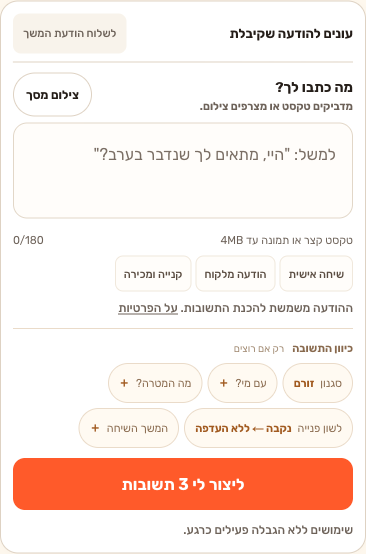
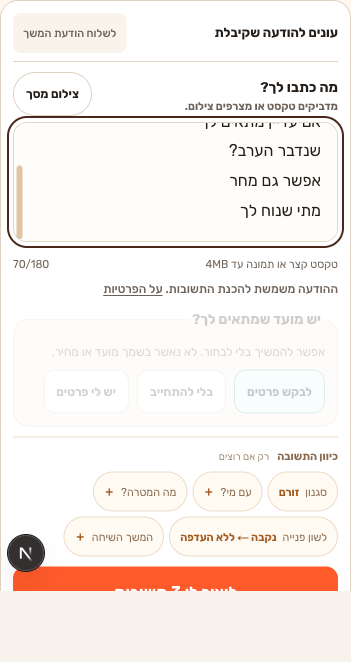
Grow message input within bounds and refine dialog close control

diff --git a/components/reply-direction-controls.tsx b/components/reply-direction-controls.tsx
@@ -86,7 +86,7 @@ export function ReplyDirectionControls(props: ReplyDirectionControlsProps) {
         const rect = event.currentTarget.getBoundingClientRect();
         if (event.clientX < rect.left || event.clientX > rect.right || event.clientY < rect.top || event.clientY > rect.bottom) setSelectedField(null);
       }} onCancel={() => setSelectedField(null)} onClose={() => setSelectedField(null)}>
-        <div className="sb-direction-dialog-top"><span>כיוון התשובה</span><button type="button" onClick={() => setSelectedField(null)} aria-label="סגירת אפשרויות כיוון התשובה">×</button></div>
+        <div className="sb-direction-dialog-top"><span>כיוון התשובה</span><button type="button" onClick={() => setSelectedField(null)} aria-label="סגירת אפשרויות כיוון התשובה"><svg width="18" height="18" viewBox="0 0 24 24" fill="none" aria-hidden="true"><path d="m6 6 12 12M18 6 6 18" stroke="currentColor" strokeWidth="1.7" strokeLinecap="round" /></svg></button></div>
         <div className="sb-direction-section" data-field={activeField}>
         <DirectionEditor key={activeField} {...props} field={activeField} close={() => setSelectedField(null)} />
         </div>

diff --git a/app/home-page-client.tsx b/app/home-page-client.tsx
@@ -2085,6 +2085,19 @@ export default function Home({
   const [composeMode, setComposeMode] = useState<ComposeMode>('incoming');
   const [mobilePrimaryView, setMobilePrimaryView] = useState<MobilePrimaryView>('compose');
   const [message, setMessage] = useState('');
+  useEffect(() => {
+    function resizeMessageInput() {
+      const input = messageInputRef.current;
+      if (!input) return;
+      input.style.height = '0px';
+      const border = input.offsetHeight - input.clientHeight;
+      input.style.height = `${input.scrollHeight + border}px`;
+    }
+    resizeMessageInput();
+    window.addEventListener('resize', resizeMessageInput);
+    return () => window.removeEventListener('resize', resizeMessageInput);
+  }, [message, composeMode, mobilePrimaryView]);
+
   const [languagePreferences, setLanguagePreferences] = useState<LanguagePreferences>({ speaker: 'neutral', recipient: 'neutral' });
   useEffect(() => {
     let cancelled = false;

diff --git a/components/reply-direction-controls.css b/components/reply-direction-controls.css
@@ -74,3 +74,7 @@
 .sb-direction-inline button:focus-visible, .sb-direction-dialog textarea:focus-visible { outline-color: #c17c2c; }
 .sb-direction-next { display: block; margin-inline-start: auto; margin-top: 8px; min-height: 40px; border: 1px solid #edc488; border-radius: 10px; padding: 6px 16px; color: #8c4b1b; background: #fff0cf; }
 @media (min-width: 768px) { .sb-direction-dialog { inset: 0; margin: auto; height: fit-content; } }
+
+.sb-direction-dialog-top button { display: inline-flex; align-items: center; justify-content: center; flex: 0 0 44px; width: 44px; height: 44px; padding: 0; border: 1px solid #eddcc5; border-radius: 50%; background: #fff4e3; color: #986335; }
+@media (hover: hover) { .sb-direction-dialog-top button:hover { background: #ffebca; border-color: #dfb983; color: #79451d; } }
+.sb-direction-dialog-top button:active { background: #ffe4b8; }

diff --git a/app/conversation-experience.css b/app/conversation-experience.css
@@ -255,3 +255,12 @@
   .sb-experience .sb-heading-block { display: none; }
   .sb-experience .sb-compose-panel .sb-inline-examples { display: none; }
 }
+
+/* Grow with multiline input, while leaving the rest of the composer in reach. */
+.sb-experience #incoming-message { max-height: 240px; overflow-y: auto; scrollbar-width: thin; scrollbar-color: #dfc4a5 transparent; }
+@media (max-width: 639px) {
+  .sb-experience #incoming-message { max-height: 160px; }
+}
+@media (max-width: 639px) and (max-height: 700px) {
+  .sb-experience #incoming-message { max-height: 120px; }
+}

diff --git a/README.md b/README.md
@@ -101,3 +101,7 @@ This runs lint, type checking, regression suites, and a production build. For th
 - [Visitor insights](docs/visitor-insights.md)
 
 Mobile layout verified at 320×568, 360×740, 375×667 and 390×844 CSS pixels: the incoming message field, direction toolbar and generation action fit in the initial viewport. Direction dialogs close on selection, Escape or a click outside. These checks use browser emulation; an on-screen phone keyboard reduces available space.
+
+The incoming message field grows and shrinks with its content, capped at 160px on phones (120px on short viewports) and 240px on desktop, with internal scrolling beyond the cap. Direction dialogs use a circular 44px close control.
+
+![Reply direction dialog with circular close control](docs/screenshots/reply-direction-dialog.png)
